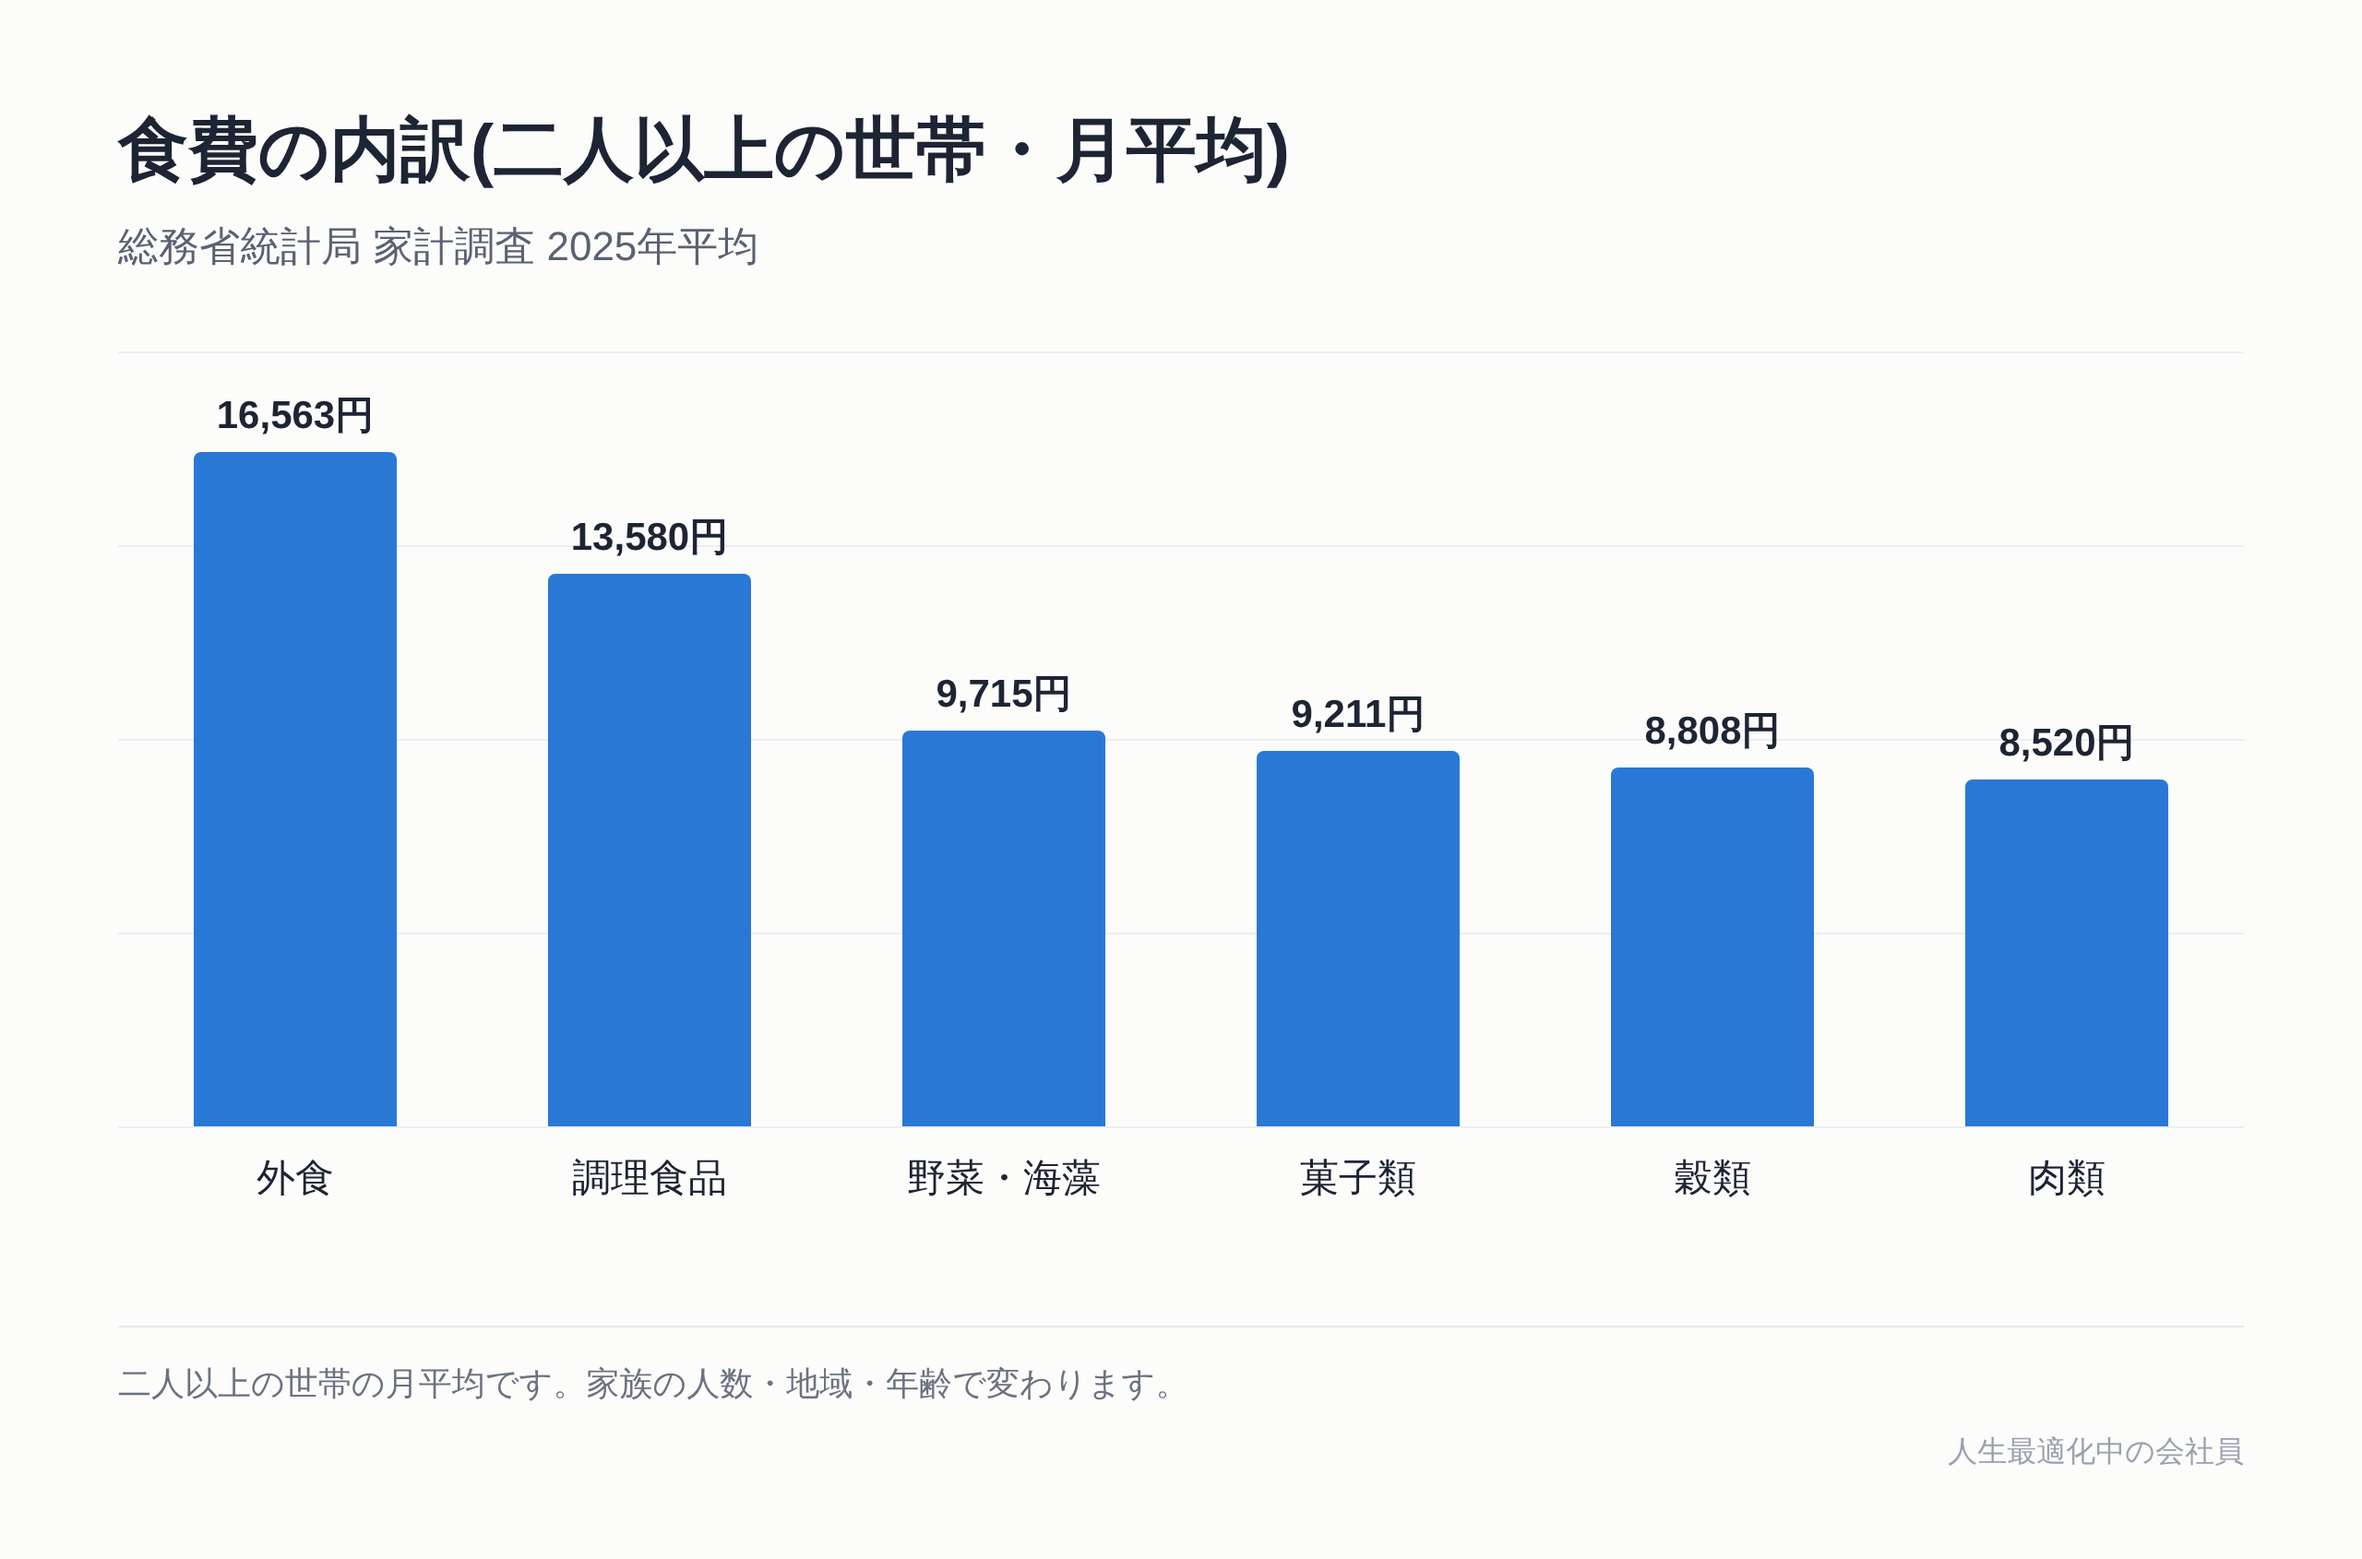
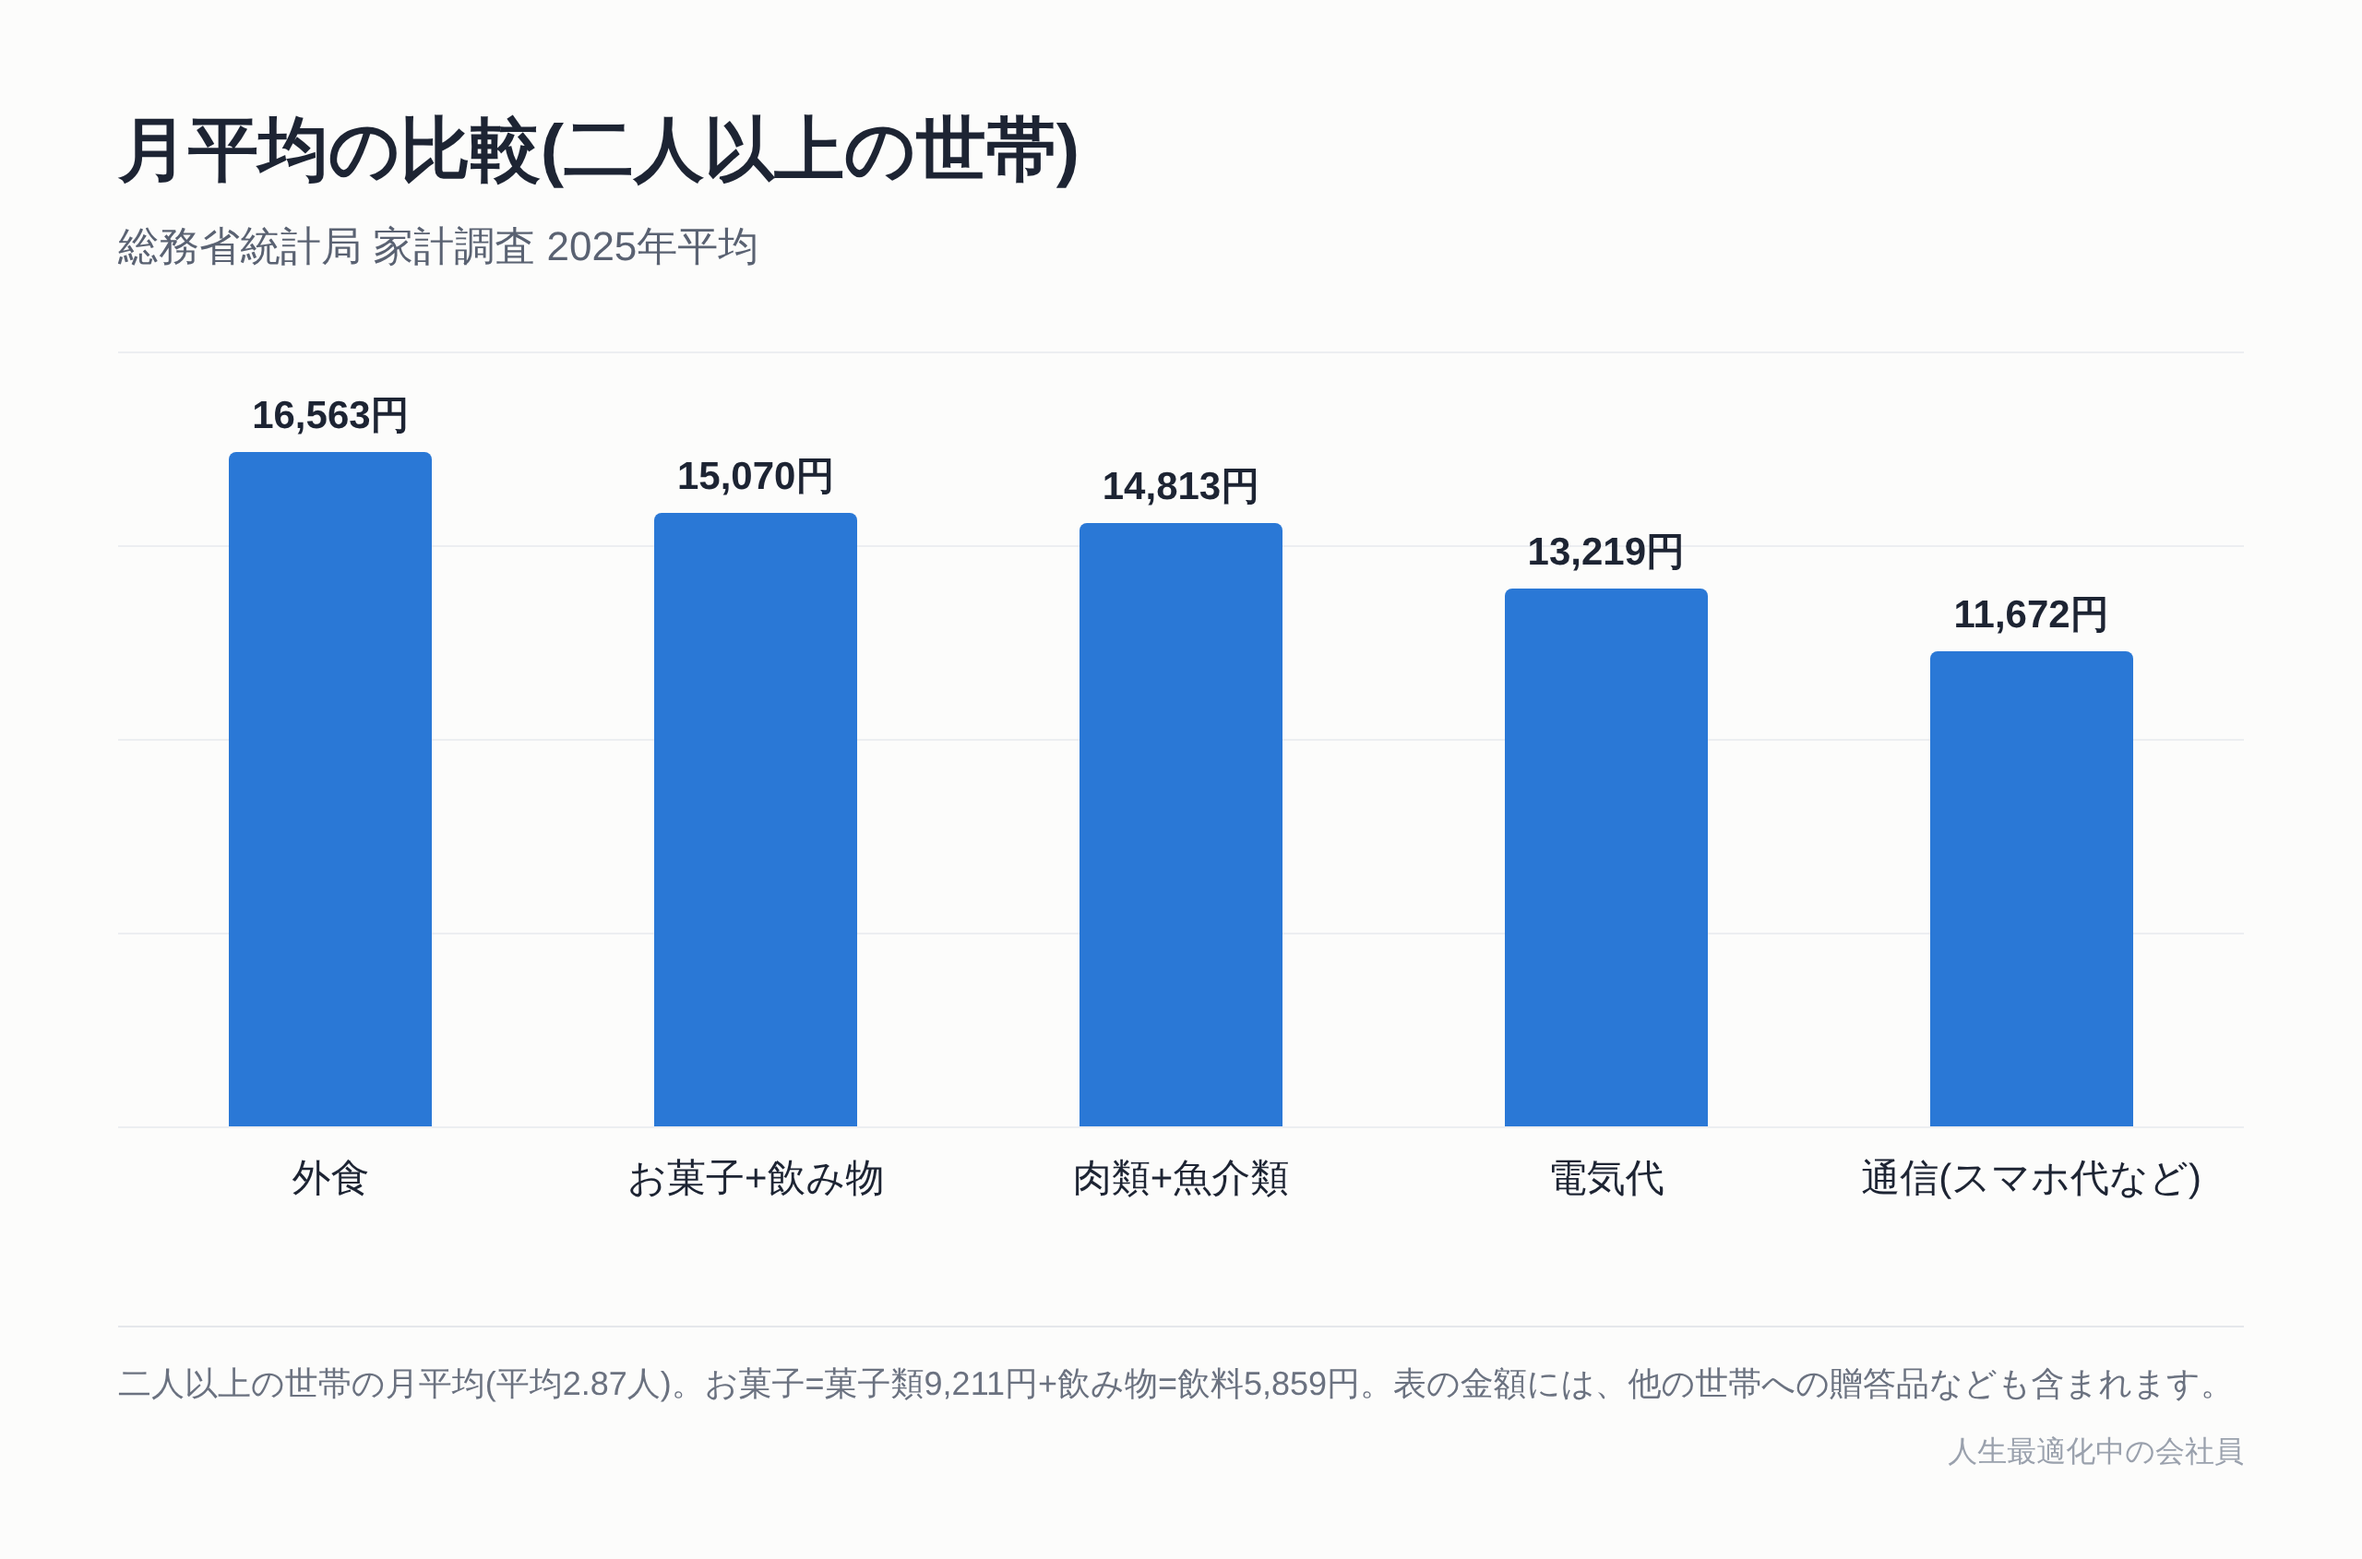
2026-11-12_002: revised (candy & drinks angle), figures
Claude-Session: https://claude.ai/code/session_019jxzMkHZEL8EPC28xkVZW1

diff --git a/runs/2026-11-12_002/05_revised.md b/runs/2026-11-12_002/05_revised.md
@@ -1,0 +1,131 @@
+# お菓子と飲み物に、平均で年18万円。電気代より多い
+
+【画像:cover.png】
+
+こんにちは、人生最適化中の会社員です。
+
+お菓子と飲み物に使うお金は、平均すると、電気代より多いです。総務省統計局の家計調査(2025年平均)で、二人以上の世帯の月平均を見ると、お菓子と飲み物の合計は月15,070円。電気代は月13,219円です。
+
+年にすると、お菓子と飲み物は15,070円×12=180,840円、電気代は13,219円×12=158,628円です。ここで出てくるのは「二人以上の世帯の平均」で、あなたの家の金額ではありません。最後に、自分の額と平均との差を出す式を載せます。
+
+## 電気代より多く、スマホ代より多い
+
+同じ調査の月平均(二人以上の世帯)を並べます。
+
+・お菓子(菓子類)9,211円+飲み物(飲料)5,859円=15,070円
+・電気代:13,219円
+・通信(スマホ代など):11,672円
+
+お菓子と飲み物の15,070円は、電気代より1,851円多く(15,070−13,219)、通信より3,398円多い金額です(15,070−11,672)。電気代やスマホ代の見直しはよく話題になりますが、お菓子と飲み物は、あまり気にされないまま、それより大きい額になっています。
+
+外食と比べても近い額です。外食は月16,563円で、年198,756円(16,563円×12)。お菓子と飲み物の合計は、外食の約91%(15,070÷16,563)にあたります。「外食とほぼ同じ規模」と言える水準です。
+
+食料の内訳で、2つずつ合わせて比べるとこうなります。
+
+・お菓子+飲み物:15,070円
+・肉類8,520円+魚介類6,293円=14,813円
+
+お菓子と飲み物の合計は、肉と魚を合わせた額より多くなっています。
+
+【画像:fig1.png】
+
+## この数字の前提
+
+出典は、家計調査報告〔家計収支編〕2025年平均結果の概要です(URLは末尾)。対象の「二人以上の世帯」は、平均世帯人員が2.87人、世帯主の平均年齢が60.7歳です。25〜40歳の会社員の家計とは、条件が違います。月平均は、年の合計を12で割った値です。
+
+## 贈答品も入っている
+
+ひとつ、正直に書いておきます。この調査の表の金額には、他の世帯への贈答品などの支出も含まれています。菓子類の9,211円にも、手土産やお歳暮のお菓子が入っている可能性があります。ただし、どれだけ入っているかは、今回確認した資料からは分かりません。
+
+つまり、15,070円のすべてが、自分用のお菓子と飲み物とは限りません。この記事では、平均の数字を「ありのまま」並べています。比べるときは、自分も贈り物のお菓子を含めるかどうかを決めて、同じ範囲で数えてください(あとで書きます)。
+
+## なぜ、積もるのか
+
+ここは調査の数字ではなく、推測です。
+
+1日あたりに直すと、180,840円÷365日で約495円。「そんなに使っていない」と感じる人もいると思います。1回が数百円なので、使った気がしにくいのかもしれません。たとえば、こんな場面です。
+
+・仕事帰りのコンビニで、飲み物だけのつもりが、お菓子もかごに入る。
+・自販機で、のどが渇いたら買う。1本ずつは気にならない。
+・在宅の日に、気分転換で何か買ってしまう。
+
+外食は「今日は外で食べた」と記憶に残りますが、お菓子と飲み物は、そのまま積み上がるのかもしれません。もちろん、これが全部の理由とは言えません。上に書いた贈答品のように、別の理由もあります。
+
+## 自分の額と比べる式
+
+得の額を、こちらで決めることはできません。かわりに、自分で出せる式を置きます。
+
+(自分の月のお菓子+飲み物の合計−15,070円)×12=平均との年の差
+
+手順は3つです。
+
+1. ひと月分のレシートか、家計アプリの記録を用意する。
+2. お菓子と飲み物だけ、金額を足す。手土産・贈り物で買った分も、平均に入っているので、足して数える。
+3. 合計を式に入れる。
+
+お酒は、調査では「酒類」という別の項目なので、足さないほうが比べやすくなります。分け方に迷うものは、印をつけておき、毎月同じ決まりで数えてください。
+
+仮の例を2つ置きます(実在の家の数字ではありません)。
+
+・月20,000円の場合:(20,000−15,070)×12=59,160円。平均より年59,160円多い。
+・月10,000円の場合:(10,000−15,070)×12=−60,840円。平均より年60,840円少ない。
+
+マイナスなら、平均より少ないという意味です。多いか少ないかに、良い悪いはありません。大事なのは、月々の額を一度、年の額で見てみることです。
+
+【画像:fig2.png】
+
+## 一人暮らし・二人暮らしの目安
+
+15,070円は、平均2.87人の世帯の金額です。一人暮らしの内訳は確認できていないので、二人以上の世帯の平均を、そのまま当てはめないでください。今回確認できた単身世帯の数字は、食料全体の月平均49,321円までです。
+
+そこで、大まかな目安を置きます。人数で割っただけの計算で、子どもと大人の違いなどは考えていません。
+
+・15,070円÷2.87人=1人あたり約5,251円/月(年約63,010円)
+・二人暮らしなら、約5,251円×2=約10,500円/月
+
+自分の合計を、世帯の人数×5,251円と並べると、おおよその位置が分かります。これは「目安」で、公的な統計の値ではなく、この記事で出した計算値です。
+
+## つまずきやすいところ
+
+・平均は、家族の人数・年齢・地域で変わります。
+・外食をあまりしない家は、食費の中のお菓子と飲み物の割合が、高く見えることがあります。
+・平均より多くても、悪いとは限りません。息抜きになっている人もいます。
+・平均より少なくても、他の項目が大きいかもしれません。
+・調査の分類と、自分の数え方は、完全には一致しません。
+
+また、数字は2025年の平均です。その後の値上げで、変わっている可能性があります(推測)。
+
+## まとめ
+
+・お菓子と飲み物の月15,070円(年180,840円)は、電気代13,219円や通信11,672円より多く、肉と魚の合計より多い。
+・外食16,563円の約91%。ただし贈答品も含む平均で、自分の家の額ではない。
+・自分の額は、(月のお菓子+飲み物−15,070円)×12で、平均との年の差を出せる。
+
+この記事は一般的な情報で、助言ではありません。数字は公的な調査の平均で、金額を保証するものではありません。判断はご自身で、必要に応じて専門家にご相談ください。
+
+最後まで読んでくれて、ありがとうございます。
+
+## 図の指示
+
+・cover.png:題「お菓子と飲み物に、平均で年18万円。電気代より多い」。ピクトグラムは cart(買い物・食費)。金額「18万円」を赤字・大きく。
+・fig1.png:棒グラフ。タイトル「月平均の比較(二人以上の世帯)」。棒は、外食16,563円/菓子類+飲料15,070円(強調色)/電気代13,219円/通信(スマホ代など)11,672円/肉類+魚介類14,813円。値は棒の上に直接書く。注記:家計調査2025年平均、二人以上の世帯(平均2.87人・世帯主平均60.7歳)。表金額は贈答品などを含む。
+・fig2.png:計算の図。「15,070円×12=180,840円(約18万円)」「電気代13,219円×12=158,628円」「外食16,563円×12=198,756円(15,070÷16,563=約91%)」「(自分の月の額−15,070円)×12=平均との年の差」。注記:平均で計算した値。あなたの家の金額ではない。仮の例:月20,000円なら+59,160円、月10,000円なら−60,840円。
+
+## 情報源
+- https://www.stat.go.jp/data/kakei/2025np/pdf/summary.pdf (家計調査報告〔家計収支編〕2025年(令和7年)平均結果の概要。総務省統計局。取得日2026-11-11)
+- https://www.stat.go.jp/data/kakei/2025np/index.html (家計調査年報(家計収支編)2025年。総務省統計局。取得日2026-11-11)
+
+## 修正履歴
+- 問題1: 贈答品などが金額に含まれることを「贈答品も入っている」の節で1回、正直に書いた(どれだけ入るかは不明と明記)。あるあるは「全部の理由とは言えない」と断り、比べる手順2に「贈り物で買った分も足す」を追加。エンゲル係数の注記は削除。
+- 問題2: 1,000円×12の例を削除。題・冒頭の主役を「電気代13,219円・通信11,672円より多い」に変更(研究[S1]の数字を確認)。締めは「(自分の月の合計−15,070円)×12」の式と仮の例2つ(+59,160円/−60,840円)。外食との比較は約91%で短く残した。
+- 問題3: 「15,070÷2.87=約5,251円(年約63,010円)」と二人暮らしの約10,500円を、人数で割っただけの目安と注記して追加。単身の内訳は未確認と1文で正直に書いた(食料49,321円は研究どおり)。
+- 問題4: 分類の追加確認はできていないため、定義の箇条は削除し、「迷うものは毎月同じ決まりで数える」の1文にした。確認していない例は書いていない。
+- 問題5: 「お菓子+飲み物15,070円」と「肉類+魚介類14,813円」の2つ対2つの比較に変更。fig1の指示も、電気代・通信・外食・肉+魚の比較に変えた。
+- 問題6: 冒頭は「電気代より多い」の驚き1つ→年の式の短い2段落に。平均であることの注意は1文にし、言い訳から始めない。
+- 問題7: エンゲル係数の段落を削除。定義の節は出典・対象(2.87人・60.7歳)の短い段落にした。まとめは3行にした。
+- 問題8: 節の冒頭に「推測です」を1回だけ書き、あるあるは3つに。崩れた文(「どれも、そんな人も〜」)を削除。
+- 問題9: 穀類の例(ごはん・パン・麺)は、穀類の記述ごと削除(出典未確認のため)。
+- 問題10: 1日あたりは180,840÷365=約495円に変更し、仮置きの注記も削除。
+- 問題11: 単身の段落を書き直し「〜ません。」の連続をなくした。穀類・肉類・魚介類の「より多い」3連続も削除。つまずきの箇条の文末も整えた。
+- 問題12: 編集長の決定に従い、題を「お菓子と飲み物に、平均で年18万円。電気代より多い」に変更。題・本文・図の指示をそろえた。「外食とほぼ同じ」は、副の比較として本文に残した。
+- 校正: 冒頭・締めの決まり文句(「物差しを渡す」「感覚が変わるかも」「いちばん伝えたいのは」)を削除。表記(「お菓子(菓子類)」「飲み物(飲料)」)をそろえた。
